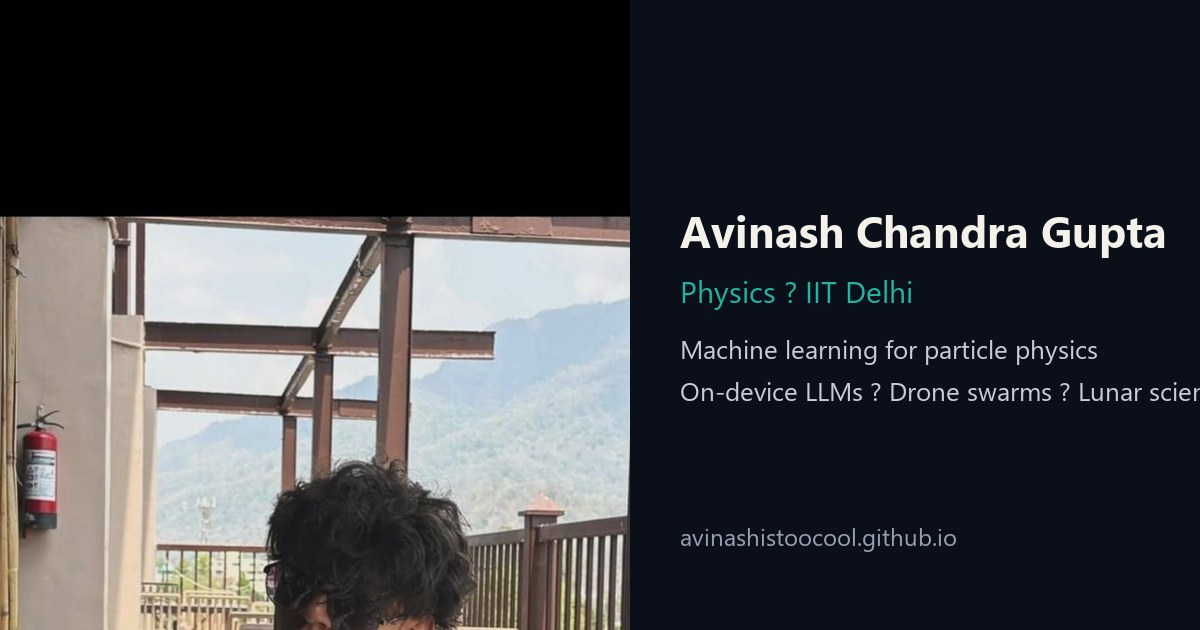
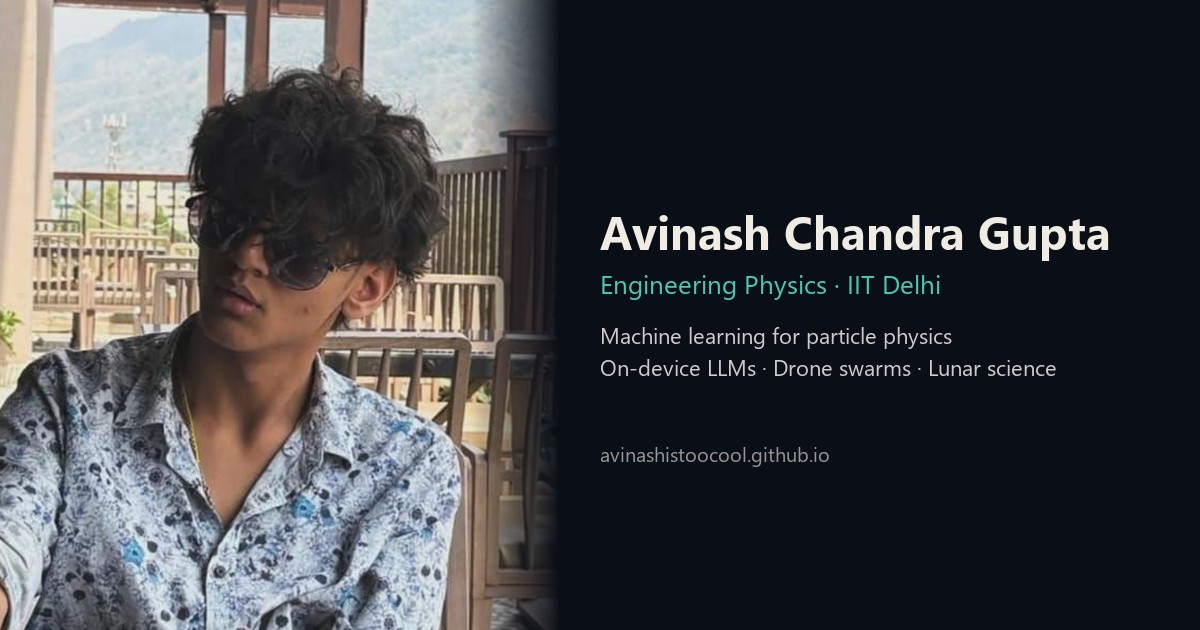
Recentre social card and headshot on the face; drop letterbox bands

diff --git a/index.html b/index.html
@@ -15,7 +15,7 @@
 <meta property="og:title" content="Avinash Chandra Gupta (Avinash Gupta)">
 <meta property="og:description" content="Physics student at IIT Delhi building machine learning for particle physics, drone swarms, lunar science and open-source research tools.">
 <meta property="og:url" content="https://avinashistoocool.github.io/">
-<meta property="og:image" content="https://avinashistoocool.github.io/assets/og-card.jpg">
+<meta property="og:image" content="https://avinashistoocool.github.io/assets/og-card.jpg?v=2">
 <meta property="og:image:width" content="1200">
 <meta property="og:image:height" content="630">
 <meta property="og:image:alt" content="Portrait of Avinash Chandra Gupta">
@@ -23,7 +23,7 @@
 <meta property="profile:last_name" content="Gupta">
 <meta property="profile:username" content="avinashistoocool">
 <meta name="twitter:card" content="summary_large_image">
-<meta name="twitter:image" content="https://avinashistoocool.github.io/assets/og-card.jpg">
+<meta name="twitter:image" content="https://avinashistoocool.github.io/assets/og-card.jpg?v=2">
 <meta name="twitter:site" content="@suprcoolavinash">
 <meta name="twitter:creator" content="@suprcoolavinash">
 <meta name="twitter:title" content="Avinash Chandra Gupta (Avinash Gupta)">
